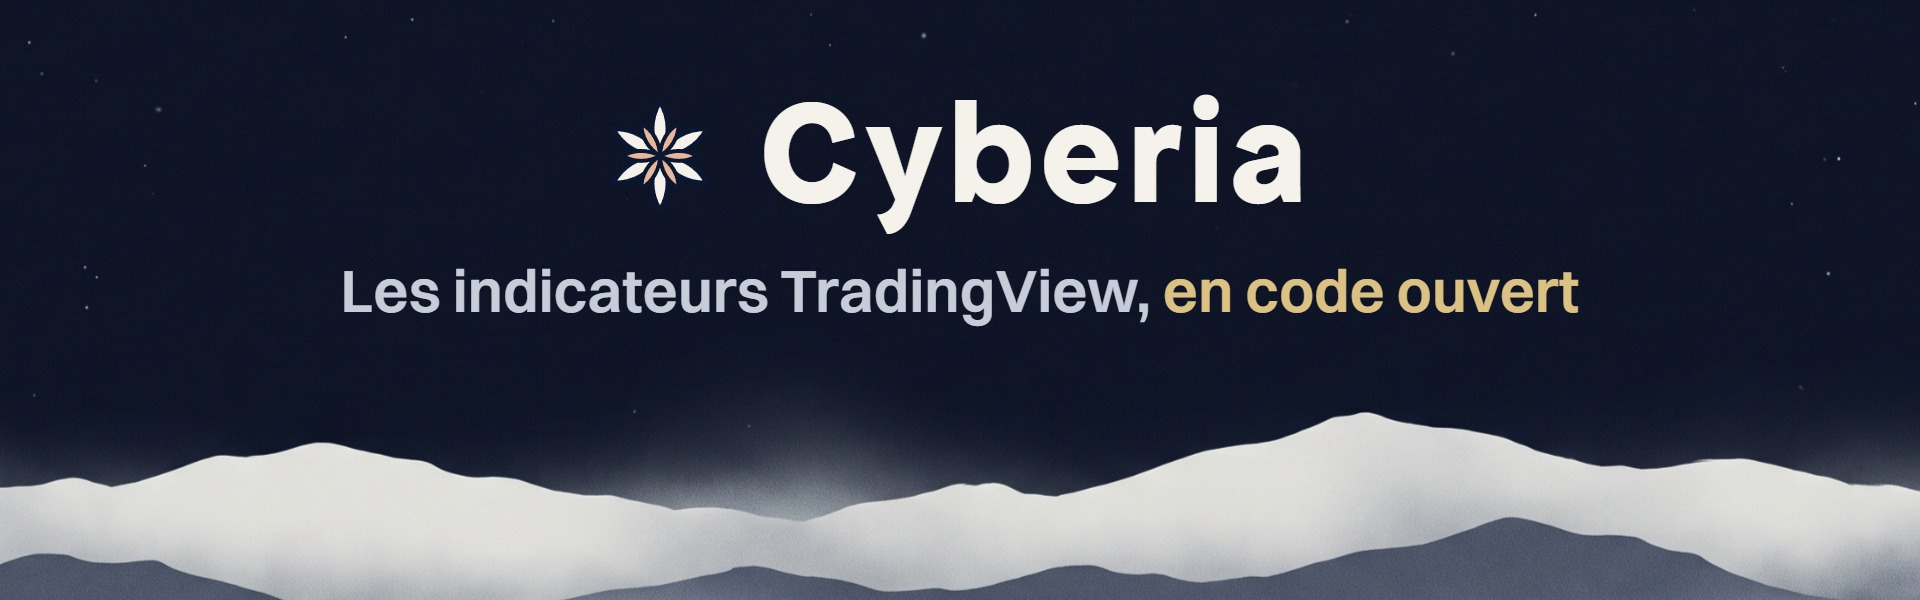
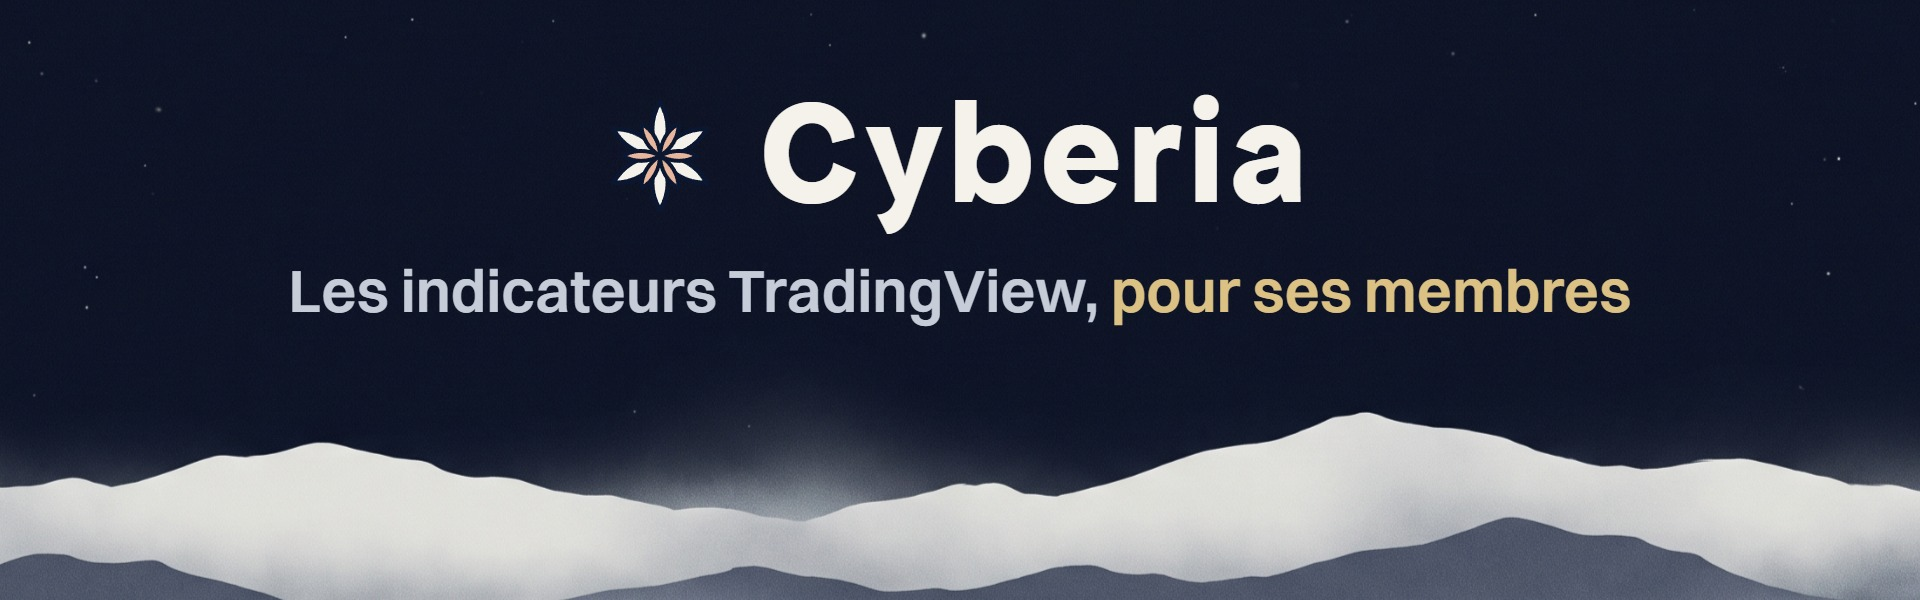
Bannière : « pour ses membres » remplace « en code ouvert »
Le code des indicateurs se partage désormais sur le Discord de Cyberia.

Changed region(s): [[0.125, 0.45, 0.875, 0.54]]

diff --git a/README.md b/README.md
@@ -1,6 +1,6 @@
 <div align="center">
 
-<img src="banniere-github.jpg" alt="Cyberia : les indicateurs TradingView, en code ouvert" width="100%">
+<img src="banniere-github.jpg" alt="Cyberia : les indicateurs TradingView, pour ses membres" width="100%">
 
 </div>
 
